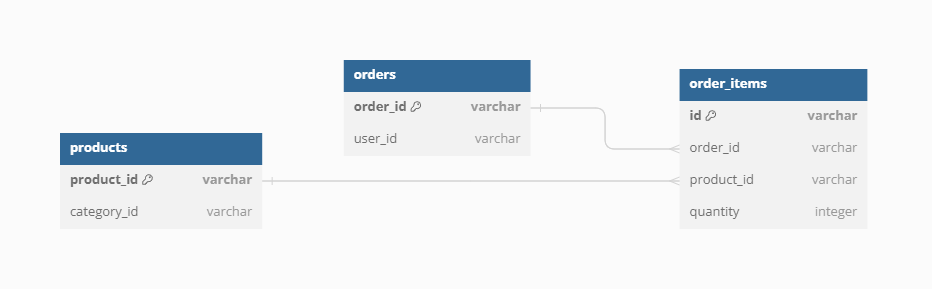
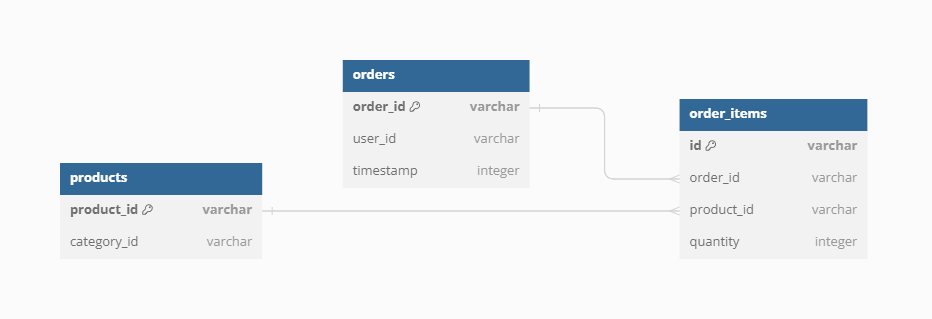
bug fix and test

diff --git a/Test/TestDataGenerator/app.py b/Test/TestDataGenerator/app.py
@@ -1,0 +1,75 @@
+import random
+import uuid
+import os
+
+import psycopg2
+from dotenv import load_dotenv
+
+### This script enables the necessary tests to be performed by loading test data into the PostgreSQL database
+
+load_dotenv()
+
+conn = psycopg2.connect(
+    dbname=os.getenv("POSTGRES_DB_NAME"),
+    user=os.getenv("POSTGRES_DB_USER"),
+    password=os.getenv("POSTGRES_DB_PASSWORD"),
+    host=os.getenv("POSTGRES_DB_HOST")
+)
+
+cur = conn.cursor()
+
+def main():
+    # Generate product_id list for create table
+    product_id_list = list()
+    for num in range(1000):
+        product_id_list.append("product-" + str(num))
+
+    random.shuffle(product_id_list)
+
+    # Generate user_id list
+    user_id_list = list()
+    for num in range(100):
+        user_id_list.append("user-" + str(num))
+
+    for product_id in product_id_list:
+
+        # randomly determine which category this product belongs to
+        category_id = "category-" + str(random.randint(1, 4))
+
+        # Create product 
+        cur.execute("""
+            INSERT INTO products (product_id, category_id) 
+            VALUES (%s, %s)
+        """, (product_id, category_id))
+
+        for _ in range(random.randint(1, 200)): # Generate the number of random purchases of a product
+
+            # Generate unique uuid for order_id
+            order_id = str(uuid.uuid4()) 
+
+            # Pick random user_id
+            user_id = random.choice(user_id_list) 
+
+            # BETWEEN (June 1, 2023) AND (June 1, 2024) 
+            timestamp = random.randint(1685581261, 1717203661) 
+
+            # Create order
+            cur.execute("""
+                INSERT INTO orders (order_id, user_id, timestamp) 
+                VALUES (%s, %s, %s)
+            """, (order_id, user_id, timestamp))
+
+            # Generate random order quantity value
+            order_item_quantity = random.randint(1, 5) 
+
+            # Create order item
+            cur.execute("""
+                INSERT INTO order_items (order_id, product_id, quantity) 
+                VALUES (%s, %s, %s)
+            """, (order_id, product_id, order_item_quantity))
+
+    conn.commit()
+    conn.close()
+
+if __name__ == "__main__":
+    main()

diff --git a/Airflow/dags/pm_dag.py b/Airflow/dags/pm_dag.py
@@ -1,6 +1,6 @@
-import os
 import time
-from datetime import datetime, timedelta
+#import datetime
+from datetime import timedelta, datetime
 
 from airflow import DAG
 from airflow.operators.bash_operator import BashOperator
@@ -27,6 +27,12 @@ def etl_process():
     cluster = Cluster(['cassandra'])
     session = cluster.connect('productviews')
 
+    # Since the DAG will be triggered daily, a daily timestamp value is calculated
+    now = datetime.now()
+    last_month = now - timedelta(days=30)
+    last_month_unix = int(last_month.timestamp())
+    now_unix = int(now.timestamp())
+
     # Fetch order data from PostgreSQL
     cur_postgres.execute("""
         SELECT 
@@ -35,17 +41,21 @@ def etl_process():
             orders.user_id,
             products.product_id,
             products.category_id,
-            order_items.quantity
+            order_items.quantity,
+            orders.timestamp
         FROM 
             order_items
         INNER JOIN orders ON order_items.order_id = orders.order_id
         INNER JOIN products ON order_items.product_id = products.product_id
-    """)
+        WHERE 
+            orders.timestamp >= %s AND
+            orders.timestamp < %s
+    """, (last_month_unix, now_unix))
     rows = cur_postgres.fetchall()
 
     # Load order data into Cassandra
-    timestamp = datetime.fromtimestamp(int(time.time()))
     for row in rows:
+        timestamp = datetime.fromtimestamp(int(row[6]))
         session.execute("""
             INSERT INTO order_views (orderid, userid, productid, categoryid, quantity, messagetime)
             VALUES (%s, %s, %s, %s, %s, %s)
@@ -71,7 +81,7 @@ dag = DAG(
     'etl_dag',
     default_args=default_args,
     description='ETL process DAG',
-    schedule_interval='@hourly',
+    schedule_interval='@monthly',
 )
 
 # ETL Process

diff --git a/ProductMatch/API_Services/engine.py b/ProductMatch/API_Services/engine.py
@@ -20,6 +20,9 @@ def get_nav_history_latest(userid):
     products = []
     for row in sorted(rows, key=lambda x: x.messagetime, reverse=True)[:10]:
         products.append(row.productid)
+    
+    if len(products) < 5:
+        return []
     return products
 
 ## Delete history: A function where they can delete a product from their history
@@ -47,7 +50,7 @@ def history_recommendations(userid):
 
     # If the user has no browsing history, return a list as a second strategy.
     # Return the top ten products purchased by the most users without any filters.
-    if len(top_10_products) == 10:
+    if len(top_10_products) >= 5:
         return [product[0] for product in top_10_products], "personalized"
     else:
         # These products should be from orders placed last month.
@@ -57,7 +60,11 @@ def history_recommendations(userid):
 
         rows = session.execute("SELECT * FROM order_views ALLOW FILTERING")
 
-        filtered_rows = [row for row in rows if two_months_ago <= row.messagetime < one_month_ago]
-        product_ids = [row.productid for row in filtered_rows]
+        product_ids = []
+        for row in rows:
+            if two_months_ago <= row.messagetime < one_month_ago:
+                product_ids.append(row.productid)
 
+        if len(product_ids) < 5:
+            return [], "non-personalized"
         return [product_id for product_id, _ in Counter(product_ids).most_common(10)], "non-personalized"
